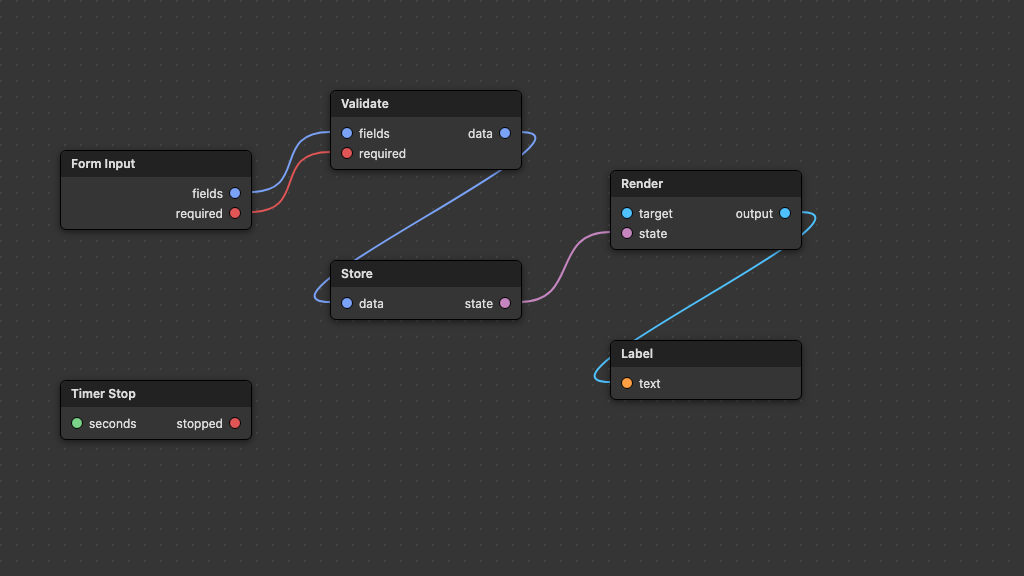
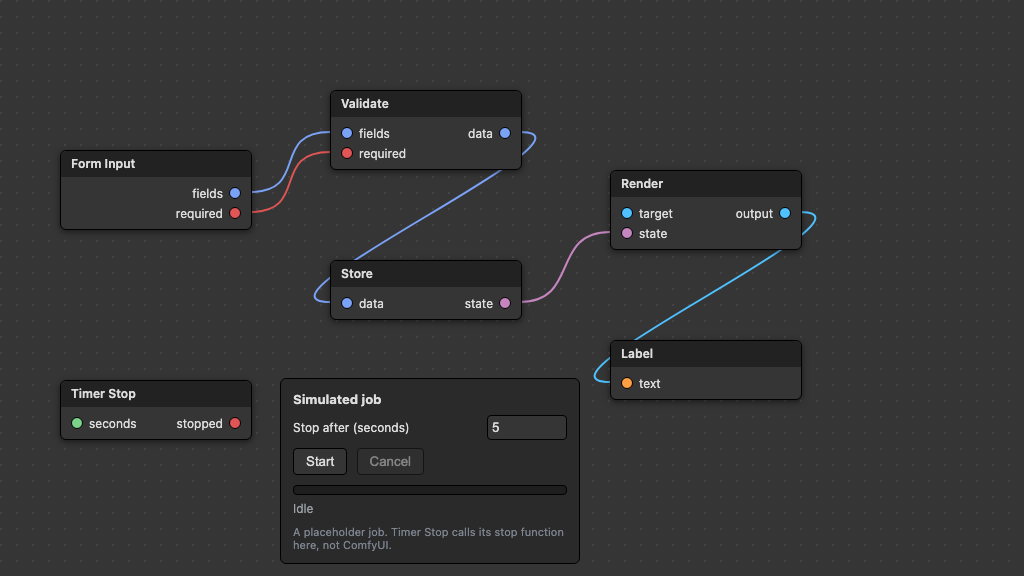
make the graph demo playable
nodes can be dragged and links follow. the demo page has a simulated
job with start and cancel, stopped by the timer stop node.

readme links to the live demo.

diff --git a/demo/graph.html b/demo/graph.html
@@ -5,11 +5,92 @@
   <meta name="viewport" content="width=device-width, initial-scale=1">
   <title>comfy UI</title>
   <link rel="stylesheet" href="../src/ui/styles/graph.css">
+  <style>
+    #app {
+      position: relative;
+      width: 1024px;
+      height: 576px;
+    }
+    .node {
+      cursor: grab;
+    }
+    .node.dragging {
+      cursor: grabbing;
+    }
+    .job {
+      position: absolute;
+      left: 280px;
+      bottom: 12px;
+      width: 300px;
+      box-sizing: border-box;
+      padding: 12px;
+      background: #2a2a2a;
+      border: 1px solid #000000;
+      border-radius: 6px;
+      color: #dddddd;
+      font: 12px -apple-system, BlinkMacSystemFont, 'Segoe UI', Roboto, sans-serif;
+    }
+    .job h2 {
+      margin: 0 0 8px;
+      font-size: 13px;
+    }
+    .job label {
+      display: flex;
+      align-items: center;
+      justify-content: space-between;
+      margin-bottom: 8px;
+    }
+    .job input {
+      width: 70px;
+      background: #353535;
+      color: #dddddd;
+      border: 1px solid #000000;
+      border-radius: 4px;
+      padding: 4px;
+    }
+    .job button {
+      background: #353535;
+      color: #dddddd;
+      border: 1px solid #000000;
+      border-radius: 4px;
+      padding: 5px 12px;
+      margin-right: 6px;
+      cursor: pointer;
+    }
+    .job button:disabled {
+      opacity: 0.5;
+      cursor: default;
+    }
+    .bar {
+      height: 8px;
+      margin: 10px 0 6px;
+      background: #1e1e1e;
+      border: 1px solid #000000;
+      border-radius: 4px;
+      overflow: hidden;
+    }
+    .bar i {
+      display: block;
+      height: 100%;
+      width: 0;
+      background: #4fc1ff;
+    }
+    .status {
+      min-height: 16px;
+      color: #9aa0a6;
+    }
+    .note {
+      margin-top: 8px;
+      color: #7d8590;
+      font-size: 11px;
+    }
+  </style>
 </head>
 <body>
   <div id="app"></div>
   <script type="module">
     import { Graph } from '../src/ui/components/Graph.js';
+    import { createTimerStop } from '../src/nodes/TimerStop.js';
 
     const nodes = [
       { id: 'form', title: 'Form Input', x: 60, y: 150,
@@ -38,9 +119,78 @@
       { from: { node: 'render', slot: 0 }, to: { node: 'label', slot: 0 }, type: 'TARGET' },
     ];
 
-    document.getElementById('app').appendChild(
-      Graph({ width: 1024, height: 576, nodes, links })
-    );
+    const app = document.getElementById('app');
+    app.appendChild(Graph({ width: 1024, height: 576, nodes, links }));
+
+    const panel = document.createElement('div');
+    panel.className = 'job';
+    panel.innerHTML = `
+      <h2>Simulated job</h2>
+      <label>Stop after (seconds)
+        <input id="seconds" type="number" min="1" max="60" value="5">
+      </label>
+      <div>
+        <button id="start">Start</button>
+        <button id="cancel" disabled>Cancel</button>
+      </div>
+      <div class="bar"><i id="fill"></i></div>
+      <div class="status" id="status">Idle</div>
+      <div class="note">A placeholder job. Timer Stop calls its stop function here, not ComfyUI.</div>
+    `;
+    app.appendChild(panel);
+
+    const secondsInput = panel.querySelector('#seconds');
+    const startButton = panel.querySelector('#start');
+    const cancelButton = panel.querySelector('#cancel');
+    const fill = panel.querySelector('#fill');
+    const status = panel.querySelector('#status');
+
+    let timer = null;
+    let ticker = null;
+    let startedAt = 0;
+    let duration = 0;
+
+    function finish(text) {
+      clearInterval(ticker);
+      ticker = null;
+      startButton.disabled = false;
+      cancelButton.disabled = true;
+      status.textContent = text;
+    }
+
+    function tick() {
+      const elapsed = (Date.now() - startedAt) / 1000;
+      const ratio = Math.min(elapsed / duration, 1);
+      fill.style.width = `${(ratio * 100).toFixed(1)}%`;
+      status.textContent = `Running ${elapsed.toFixed(1)}s of ${duration}s`;
+    }
+
+    startButton.addEventListener('click', () => {
+      duration = Number(secondsInput.value);
+      if (!(duration >= 1 && duration <= 60)) {
+        status.textContent = 'Enter 1 to 60 seconds';
+        return;
+      }
+      startedAt = Date.now();
+      fill.style.width = '0%';
+      startButton.disabled = true;
+      cancelButton.disabled = false;
+      timer = createTimerStop({
+        seconds: duration,
+        onStop: () => {
+          fill.style.width = '100%';
+          finish(`Stopped by Timer Stop after ${duration}s`);
+        },
+      });
+      ticker = setInterval(tick, 100);
+      tick();
+      timer.start();
+    });
+
+    cancelButton.addEventListener('click', () => {
+      timer.cancel();
+      finish('Cancelled');
+    });
   </script>
 </body>
 </html>

diff --git a/src/ui/components/Graph.js b/src/ui/components/Graph.js
@@ -1,4 +1,4 @@
-import { Node, slotPosition, SLOT_COLORS } from './Node.js';
+import { Node, NODE_WIDTH, slotPosition, SLOT_COLORS } from './Node.js';
 
 const SVG_NS = 'http://www.w3.org/2000/svg';
 
@@ -28,25 +28,66 @@ export function Graph({ width, height, nodes, links = [] }) {
   `;
 
   const byId = new Map(nodes.map((n) => [n.id, n]));
-
-  for (const link of links) {
-    const source = byId.get(link.from.node);
-    const target = byId.get(link.to.node);
-    const start = slotPosition(source, 'output', link.from.slot);
-    const end = slotPosition(target, 'input', link.to.slot);
-    const color = SLOT_COLORS[link.type] ?? '#9aa0a6';
-
+  const drawn = links.map((link) => {
     const path = document.createElementNS(SVG_NS, 'path');
-    path.setAttribute('d', linkPath(start, end));
-    path.setAttribute('stroke', color);
+    path.setAttribute('stroke', SLOT_COLORS[link.type] ?? '#9aa0a6');
     path.setAttribute('stroke-width', '2');
     path.setAttribute('fill', 'none');
     svg.appendChild(path);
+    return { link, path };
+  });
+
+  function redraw() {
+    for (const { link, path } of drawn) {
+      const start = slotPosition(byId.get(link.from.node), 'output', link.from.slot);
+      const end = slotPosition(byId.get(link.to.node), 'input', link.to.slot);
+      path.setAttribute('d', linkPath(start, end));
+    }
   }
 
   root.appendChild(svg);
+  const elements = new Map();
   for (const node of nodes) {
-    root.appendChild(Node(node));
+    const el = Node(node);
+    elements.set(node.id, el);
+    root.appendChild(el);
   }
+  redraw();
+
+  let drag = null;
+  const clamp = (value, max) => Math.min(Math.max(value, 0), Math.max(max, 0));
+
+  for (const node of nodes) {
+    const el = elements.get(node.id);
+
+    el.addEventListener('pointerdown', (event) => {
+      const rect = root.getBoundingClientRect();
+      drag = {
+        id: node.id,
+        offsetX: event.clientX - rect.left - node.x,
+        offsetY: event.clientY - rect.top - node.y,
+      };
+      el.setPointerCapture(event.pointerId);
+      el.classList.add('dragging');
+    });
+
+    el.addEventListener('pointermove', (event) => {
+      if (!drag || drag.id !== node.id) return;
+      const rect = root.getBoundingClientRect();
+      node.x = clamp(event.clientX - rect.left - drag.offsetX, width - NODE_WIDTH);
+      node.y = clamp(event.clientY - rect.top - drag.offsetY, height - el.offsetHeight);
+      el.style.left = `${node.x}px`;
+      el.style.top = `${node.y}px`;
+      redraw();
+    });
+
+    const release = () => {
+      drag = null;
+      el.classList.remove('dragging');
+    };
+    el.addEventListener('pointerup', release);
+    el.addEventListener('pointercancel', release);
+  }
+
   return root;
 }

diff --git a/README.md b/README.md
@@ -6,6 +6,14 @@ A small JavaScript UI library, plus a Timer Stop custom node for ComfyUI.
 
 The image is rendered from `demo/graph.html` by `scripts/render-thumbnail.sh`. It shows the node and graph components with placeholder nodes.
 
+## Live demo
+
+Drag the nodes, then start the simulated job. Timer Stop ends it after the set number of seconds, or you can cancel it.
+
+https://owala00.github.io/comfy-ui/demo/graph.html
+
+The job is a placeholder. It does not run ComfyUI.
+
 ## Features
 
 - Lightweight: no dependencies (except express for server)
